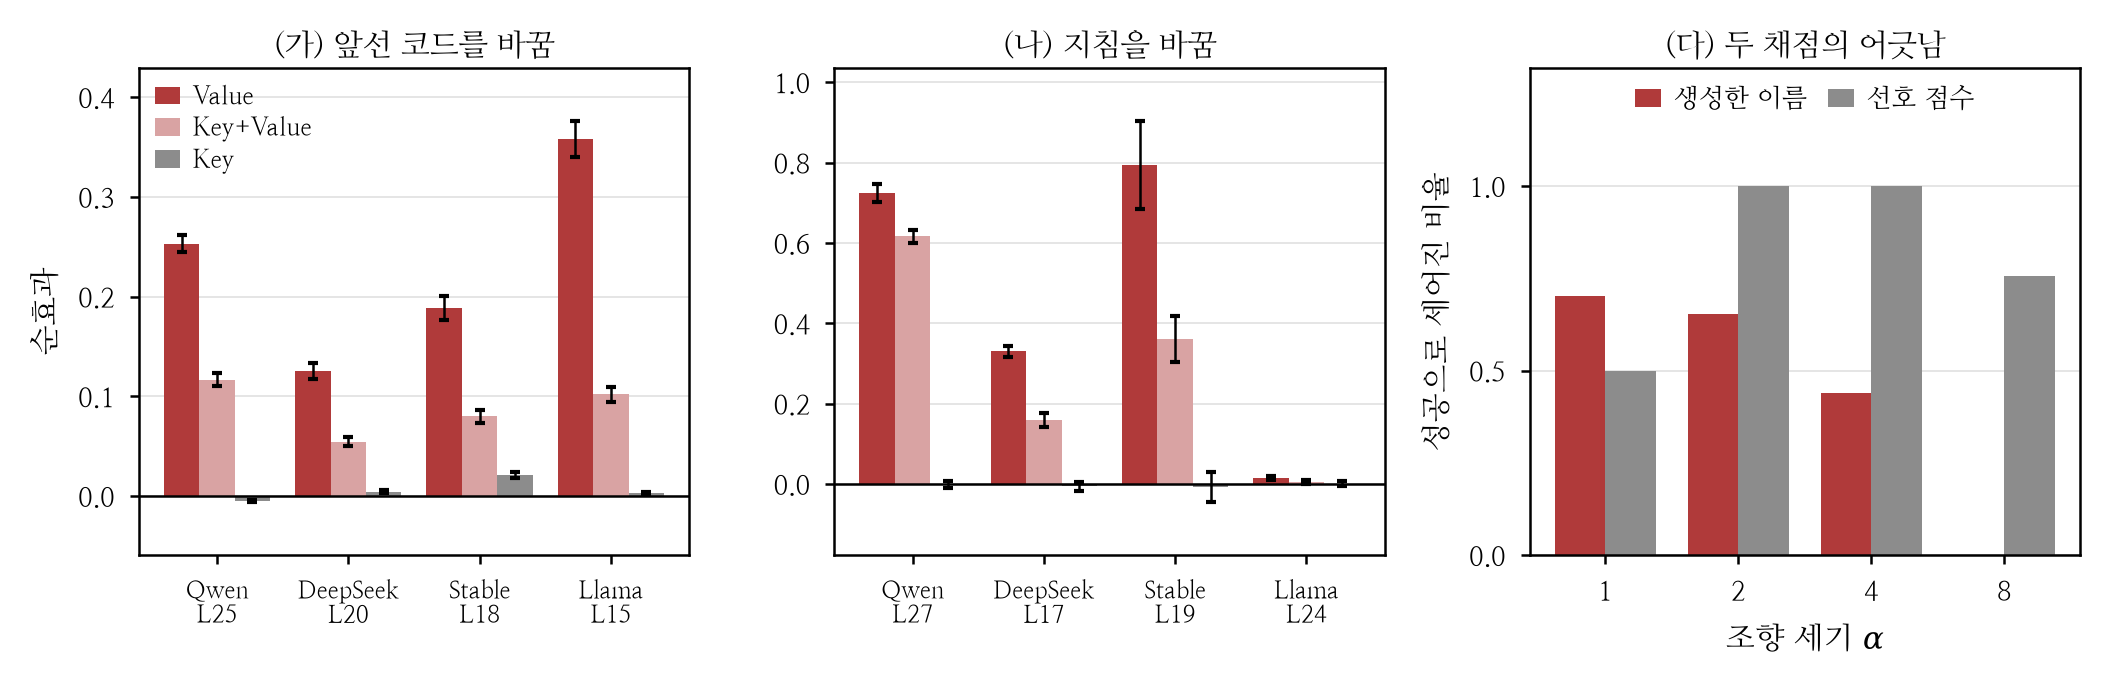
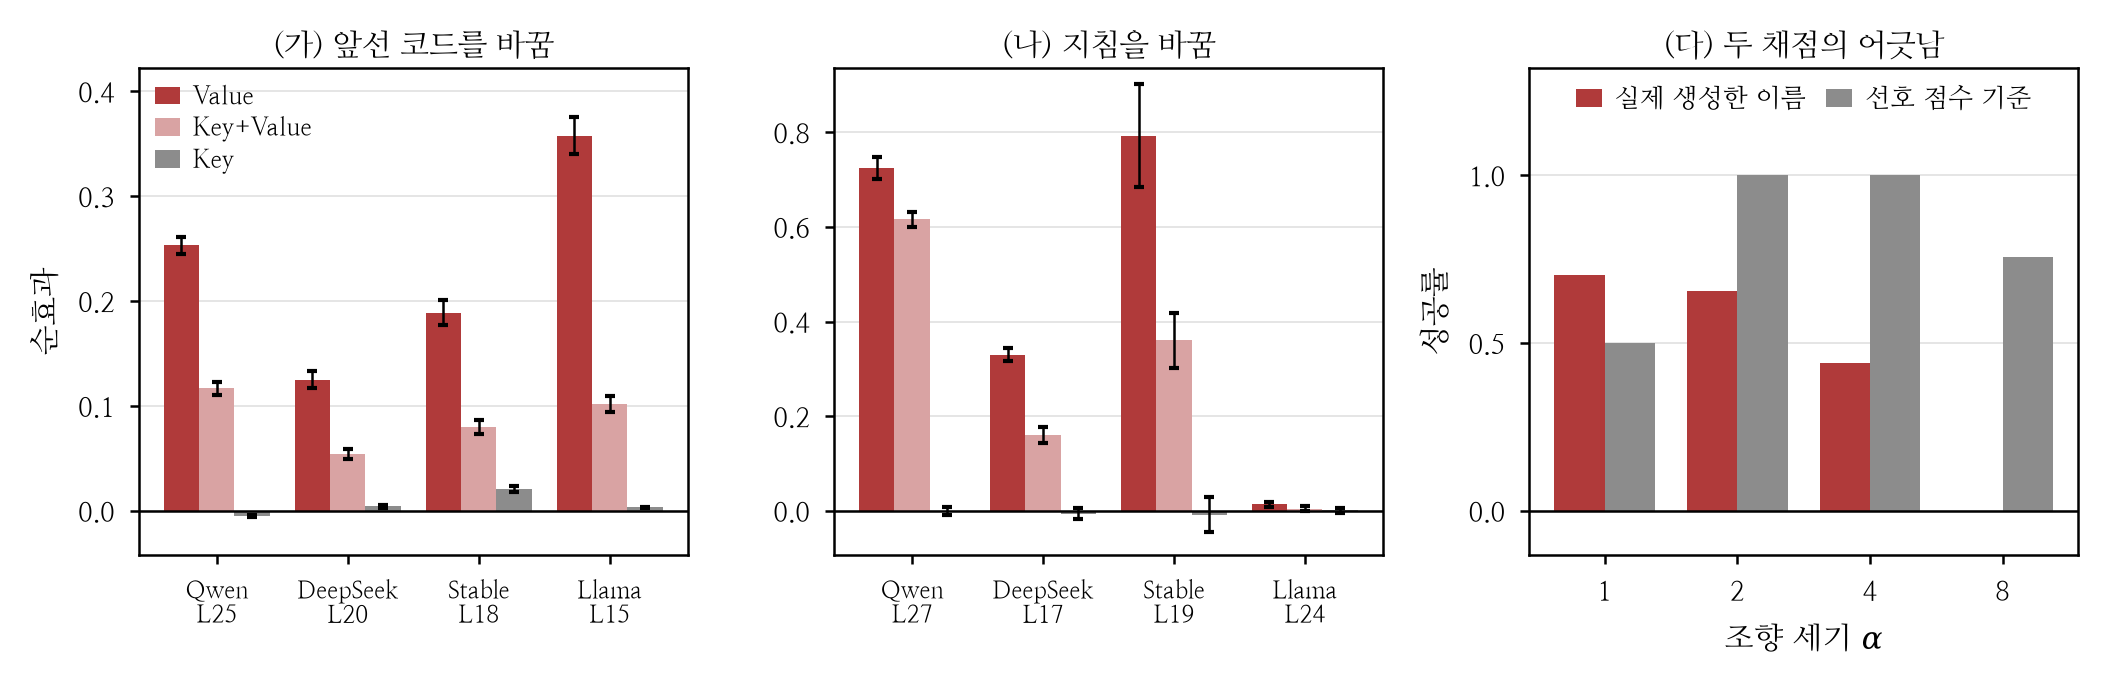
격자 그림 — 세 판의 0선을 맞추고 (다)의 이름표를 고친다
0선이 판마다 다른 높이에 있었다. 아래 여백을 각 판의 위쪽 눈금에
같은 비율로 잡아 세 판에서 같은 높이에 오게 한다.

(다)의 세로 이름표를 '성공으로 세어진 비율'에서 '성공률'로 바꾸고,
범례를 '실제 생성한 이름'과 '선호 점수 기준'으로 갈라 적는다.
빨강이 모델이 실제로 지은 이름의 성공률이고 회색은 점수로 채점했을 때의 값이다.

Claude-Session: https://claude.ai/code/session_01W6b6Aj23yMfdKeEE9zKYe1

diff --git a/scripts/paper_figures_ko.py b/scripts/paper_figures_ko.py
@@ -341,6 +341,9 @@ def fig_attention(out: Path):
     _save(fig, out, "ko_attention")
 
 
+ZERO_PAD = 0.10      # 0선을 세 판에서 같은 높이에 두기 위한 아래 여백 비율
+
+
 def fig_intervene(out: Path):
     """개입 세 판 — 앞선 코드 · 지침 · 조향 세기.
 
@@ -368,6 +371,10 @@ def fig_intervene(out: Path):
                    color=face, linewidth=0, label=lab,
                    error_kw={"linewidth": 0.6, "ecolor": "black"})
         ax.axhline(0, color="black", linewidth=0.6)
+        # 0선이 세 판에서 같은 높이에 오도록 아래 여백을 위쪽 눈금에 비례시킨다
+        top = max(src[m]["value"][max(range(len(src[m]["layers"])),
+                                      key=lambda i: src[m]["value"][i])] for m in ORDER) * 1.18
+        ax.set_ylim(-ZERO_PAD * top, top)
         ax.set_xticks(x)
         ax.set_xticklabels([f"{TIGHT[m]}\nL{src[m]['layers'][max(range(len(src[m]['layers'])), key=lambda i: src[m]['value'][i])]}"
                             for m in ORDER], fontsize=5.8)
@@ -395,24 +402,24 @@ def fig_intervene(out: Path):
     ax = axes[2]
     x = list(range(len(S)))
     for off, (src, col, lab) in zip((-0.5, 0.5),
-                                    ((gn, RED, "생성한 이름"), (sc, GRAY, "선호 점수"))):
+                                    ((gn, RED, "실제 생성한 이름"), (sc, GRAY, "선호 점수 기준"))):
         ys = [st.mean([st.mean(src[m][v]) for m in ORDER if src[m].get(v)]) for v in S]
         ax.bar([i + off * 0.38 for i in x], ys, 0.38, color=col, linewidth=0, label=lab)
     ax.set_xticks(x)
     ax.set_xticklabels([f"{v:g}" for v in S], fontsize=6.5)
     ax.set_xlabel(r"조향 세기 $\alpha$", fontsize=7.5)
     # 막대가 0에서 올라오므로 판 안 어디든 겹친다. 1.0 위에 자리를 비워 둔다
-    ax.set_ylim(0, 1.32); ax.set_yticks([0, 0.5, 1.0])
+    ax.set_ylim(-ZERO_PAD * 1.32, 1.32); ax.set_yticks([0, 0.5, 1.0])
+    ax.axhline(0, color="black", linewidth=0.6)
     ax.set_title("(다) 두 채점의 어긋남", fontsize=7.5, pad=3)
     ax.legend(fontsize=6.2, ncol=2, loc="upper center", handlelength=1.0,
               borderaxespad=0.25, columnspacing=0.8)
 
     for ax in axes:
         ax.tick_params(axis="y", labelsize=6.5)
-        ax.margins(y=0.14)
         _tidy(ax)
     axes[0].set_ylabel("순효과", fontsize=7.5)
-    axes[2].set_ylabel("성공으로 세어진 비율", fontsize=7.2)
+    axes[2].set_ylabel("성공률", fontsize=7.5)
     axes[0].legend(fontsize=6.0, loc="upper left", handlelength=1.0,
                    borderaxespad=0.25, labelspacing=0.25)
     fig.tight_layout(pad=0.3, w_pad=1.1)
